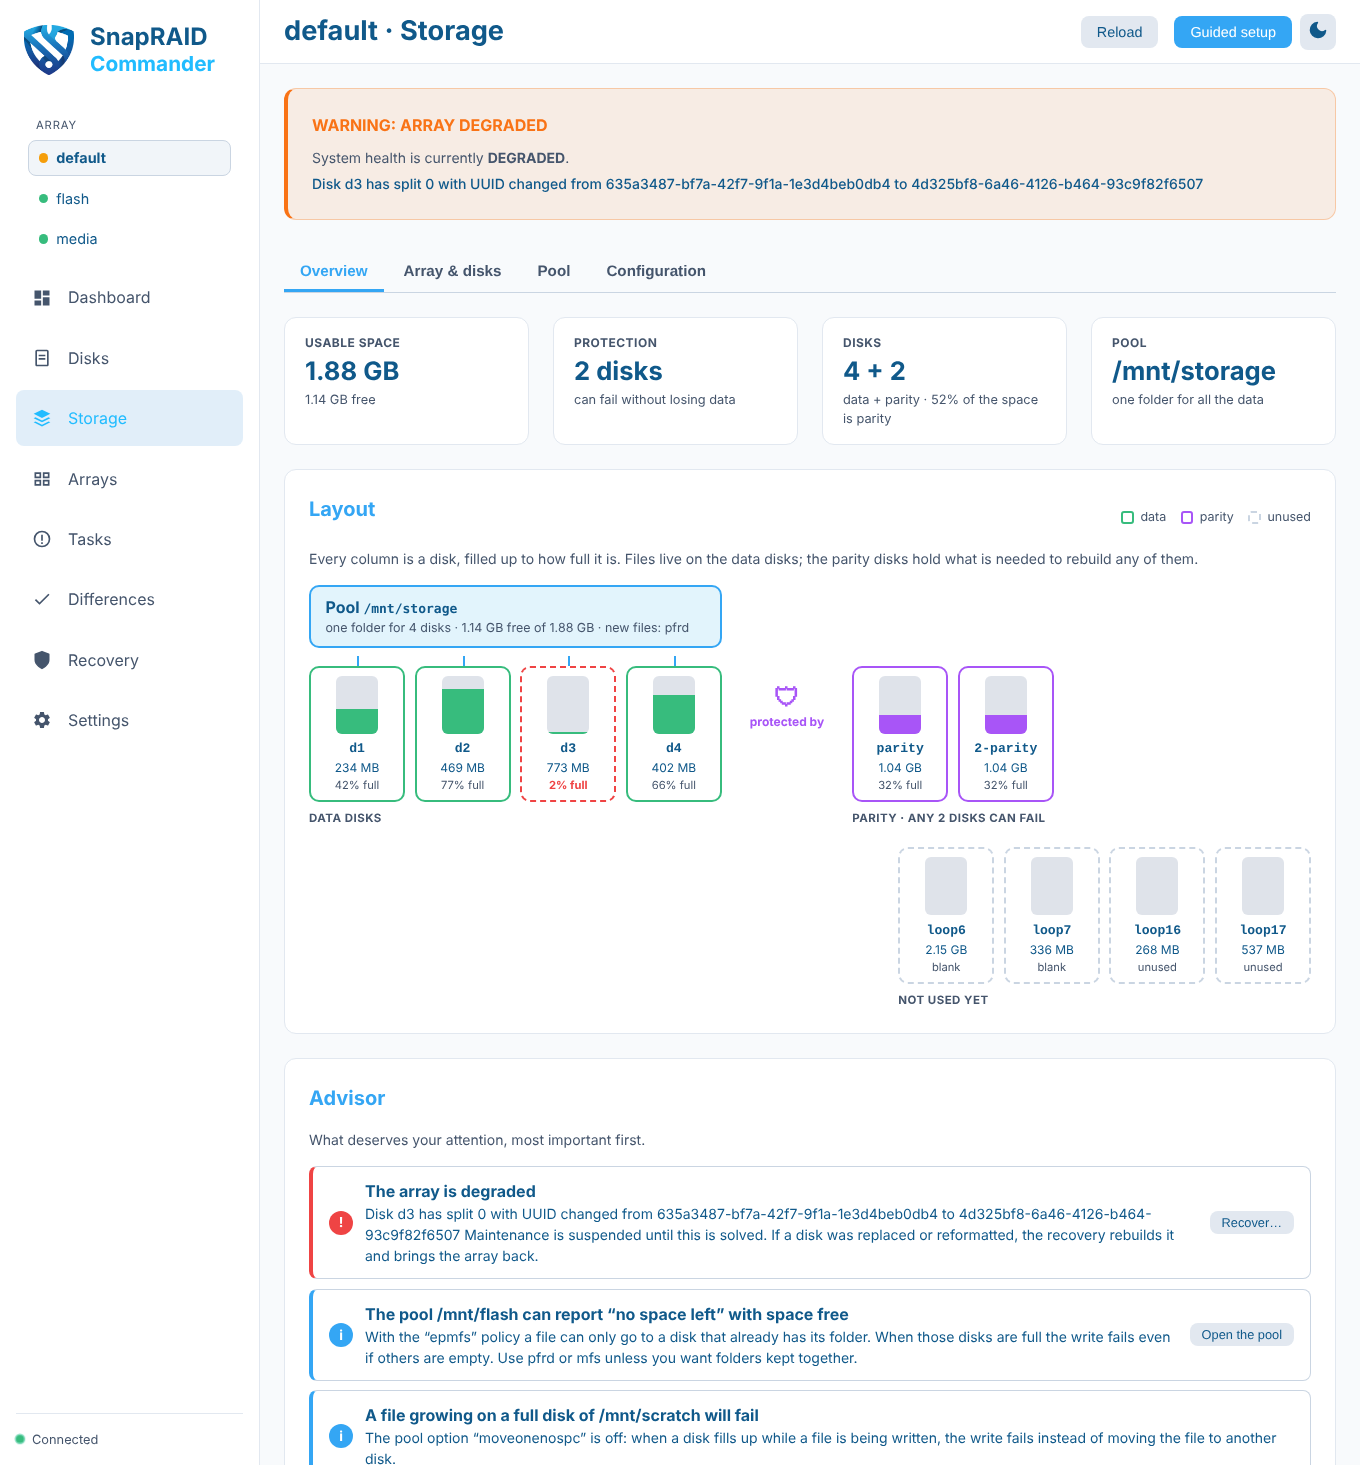
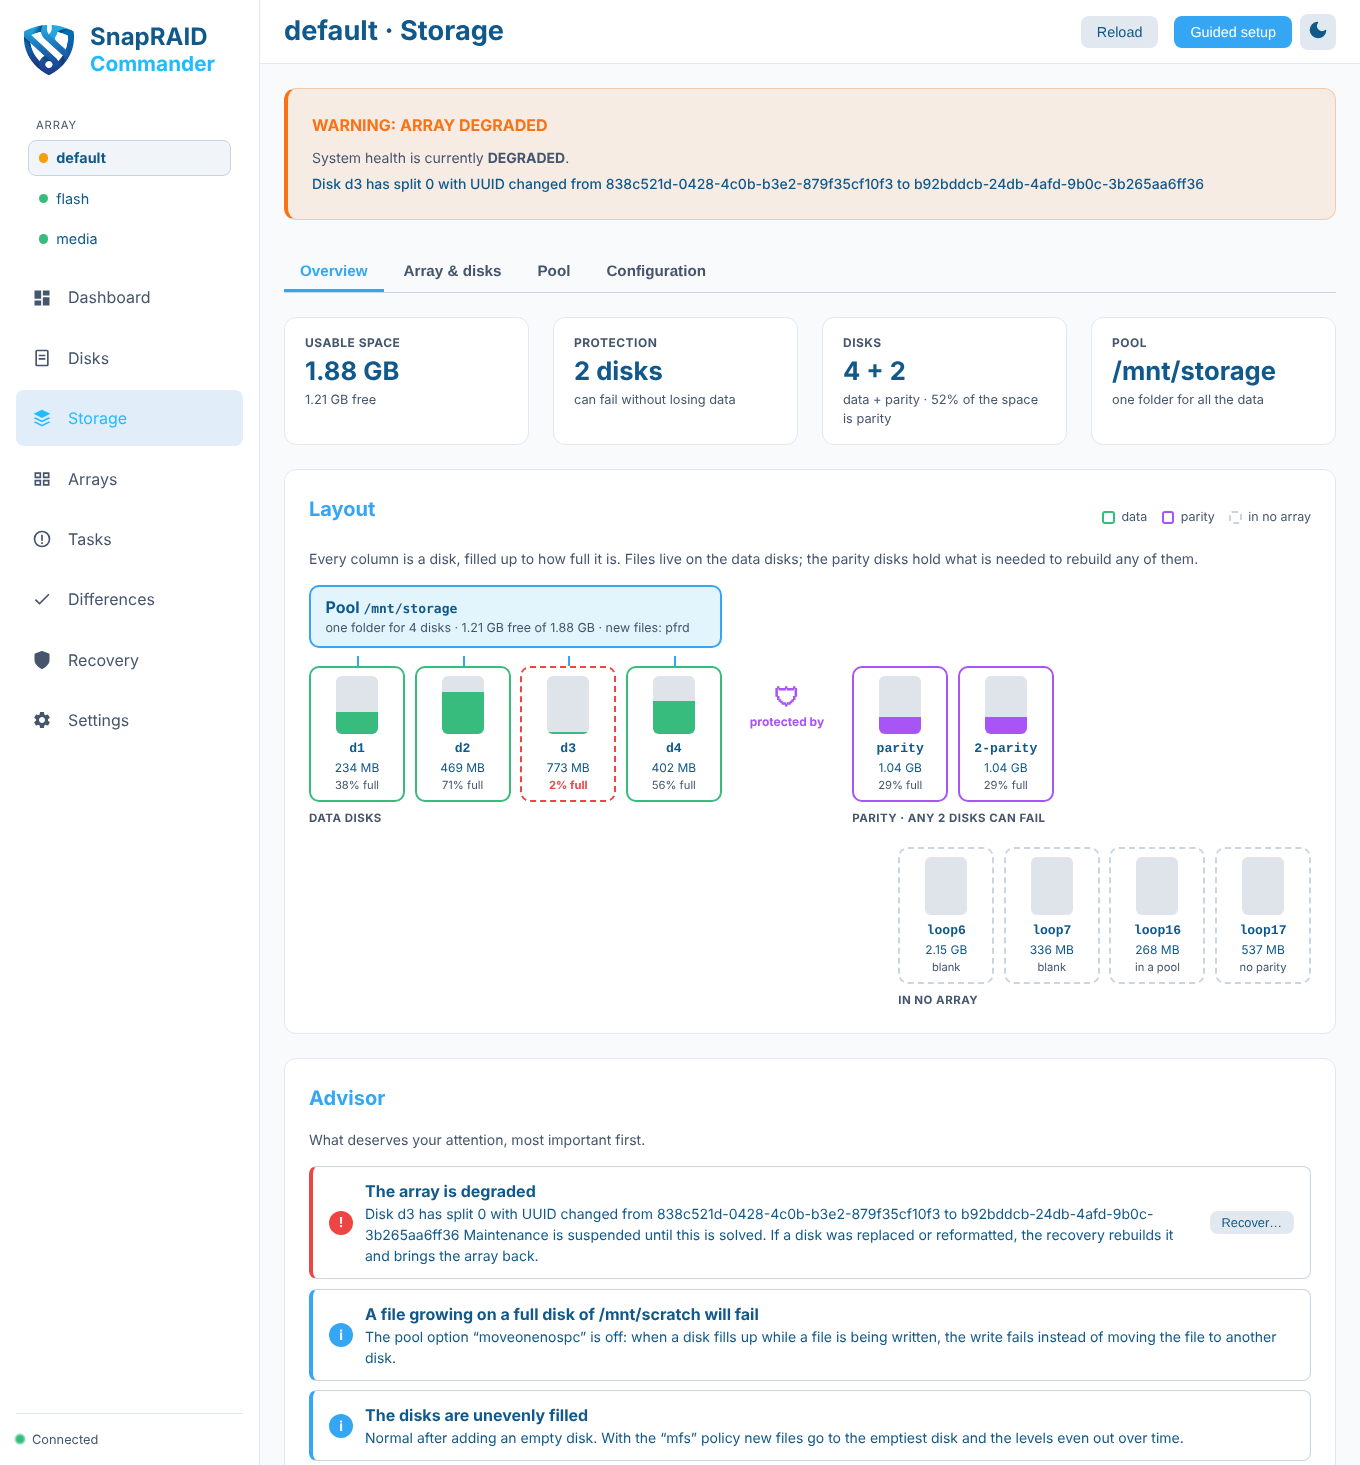
Take again the pictures the last two changes of the Storage page touch

diff --git a/README.md b/README.md
@@ -37,7 +37,7 @@ of a few hundred MB, described to SnapRAID and to the UI as the disks of the tab
 
 | | |
 |---|---|
-| **Arrays**: three arrays in one daemon, the four pools, and what protects every disk<br>[![Arrays](docs/screenshots/arrays.png)](docs/screenshots/arrays.png) | **Overview**: the default array, its pool and the advisor; the spares and the disks outside the array are on the right<br>[![Overview](docs/screenshots/overview.png)](docs/screenshots/overview.png) |
+| **Arrays**: three arrays in one daemon, the four pools, and what protects every disk<br>[![Arrays](docs/screenshots/arrays.png)](docs/screenshots/arrays.png) | **Overview**: the default array, its pool and the advisor; the blank spares and the disks that are in no array are on the right<br>[![Overview](docs/screenshots/overview.png)](docs/screenshots/overview.png) |
 | **Array & disks**: every disk the machine sees, with model, serial, kind, size and filesystem<br>[![Array & disks](docs/screenshots/array-and-disks.png)](docs/screenshots/array-and-disks.png) | **Kinds of disk**: HDD, SAS and SSD in one array, and two disks outside it that are watched all the same (`extra`)<br>[![Kinds of disk](docs/screenshots/showcase-disks.png)](docs/screenshots/showcase-disks.png) |
 | **An array of flash disks**: NVMe and SSD, with their wear in place of the failure probability<br>[![An array of flash disks](docs/screenshots/showcase-disks-flash.png)](docs/screenshots/showcase-disks-flash.png) | **A split parity**: one parity level over two disks: the first is full, the second holds the rest<br>[![A split parity](docs/screenshots/showcase-split-parity.png)](docs/screenshots/showcase-split-parity.png) |
 | **Storage of another array**: the sidebar chooses the array; this one places new files next to their folder, and the advisor says what that means<br>[![Storage of another array](docs/screenshots/arrays-storage.png)](docs/screenshots/arrays-storage.png) | **Pool**: the pools of the machine with branches, protection, placement policy and balance<br>[![Pool](docs/screenshots/pool.png)](docs/screenshots/pool.png) |
@@ -58,7 +58,7 @@ started with `LAB_PRESET=blank` (`shots-blank.json`).
 | What | Version |
 |---|---|
 | SnapRAID engine | release 15.1, unmodified, commit `4054832` (checked by the `Dockerfile`) |
-| SnapRAID Daemon | the checkout next to this folder; all the tests last run with `storage` at `98714a1` |
+| SnapRAID Daemon | the checkout next to this folder; all the tests last run with `storage` at `98714a1`, the pictures taken with `7250acd` |
 | mergerfs, xfsprogs, btrfs-progs | the ones of Debian 12 |
 
 ## Start
